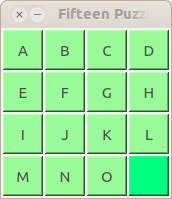
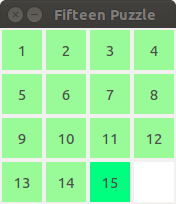
minor

diff --git a/p6-gui.html b/p6-gui.html
@@ -607,27 +607,24 @@ centralWidget()-&gt;setLayout(layout);
 <slide  >
   
     <hgroup>
-      <h2>FifteenGui</h2>
+      <h2>Fifteen</h2>
       <h3></h3>
     </hgroup>
     <article >
       <figure>
         <img src="images/qt/fifteen-puzzle.jpg">
         
-      </figure><pre class="prettyprint" data-lang="C++"><code>class FifteenGui : public QWidget {
+      </figure><pre class="prettyprint" data-lang="C++"><code>class GameGui : public QWidget {
     Q_OBJECT
 public:
-    FifteenGui(FifteenPuzzle* puzzle);
+    GameGui(Fifteen* puzzle);
 private:
     void handle_click(int x, int y);
     void update_button(int x, int y);
     void update_all_buttons();
 
-    int cols() { return puzzle_-&gt;cols(); }
-    int rows() { return puzzle_-&gt;rows(); }
-
-    vector&lt;QPushButton*&gt; buttons_;
-    FifteenPuzzle* puzzle_;
+    Fifteen* puzzle_;
+    int cols_, rows_;
 };
 </code></pre></article>
  
@@ -636,30 +633,31 @@ private:
 <slide  >
   
     <hgroup>
-      <h2>FifteenGui – Costruttore</h2>
+      <h2>Fifteen – Costruzione gui</h2>
       <h3></h3>
     </hgroup>
     <article >
       <figure>
         <img src="images/qt/puzzle.png">
         
-      </figure><pre class="prettyprint" data-lang="C++"><code>auto grid = new QGridLayout; setLayout(grid);
-for (auto y = 0; y &lt; rows(); ++y) {
-    for (auto x = 0; x &lt; cols(); ++x) {
-        auto b = new QPushButton; 
-        buttons_.push_back(b);
-        grid-&gt;addWidget(b, y, x);
-        connect(b, &amp;QPushButton::clicked,
-                [=]{ handle_click(x, y); });
+      </figure><pre class="prettyprint" data-lang="C++"><code>GameGui::GameGui(Fifteen* puzzle) {
+    cols_ = puzzle.cols(); rows_ = puzzle.rows();
+    puzzle_ = puzzle; 
+    auto grid = new QGridLayout; setLayout(grid);
+    for (auto y = 0; y &lt; rows_; ++y) {
+        for (auto x = 0; x &lt; cols_; ++x) {
+            auto b = new QPushButton; 
+            grid-&gt;addWidget(b, y, x);
+            connect(b, &amp;QPushButton::clicked,
+                    [=]{ handle_click(x, y); });
+        }
     }
+    update_all_buttons();
 }
-update_all_buttons();
 </code></pre>
 <ul>
-<li><strong>Funzioni lambda</strong>: anonime, annidate (<em>Church</em>, 1936)<ul>
-<li><strong>Closure</strong>: cattura di valori dal contesto; <code>this</code>, <code>x</code>, <code>y</code></li>
-</ul>
-</li>
+<li><em>Funzioni lambda</em>: anonime, annidate (<em>Church</em>, 1936)</li>
+<li><em>Closure</em>: cattura di valori dal contesto; <code>this</code>, <code>x</code>, <code>y</code></li>
 </ul></article>
  
 </slide>
@@ -671,19 +669,21 @@ update_all_buttons();
       <h3></h3>
     </hgroup>
     <article >
-      <pre class="prettyprint" data-lang="C++"><code>void FifteenGui::update_button(int x, int y) {
-    auto val = puzzle_-&gt;get({x, y});
-    auto symbol = 'A' + val - FifteenPuzzle::FIRST;
-    if (val == FifteenPuzzle::BLANK) symbol = ' ';
+      <pre class="prettyprint" data-lang="C++"><code>void GameGui::update_button(int x, int y) {
+    auto val = puzzle_-&gt;get(x, y);
+    string symbol = "";
+    if (val &gt; 0) symbol = to_string(val);
 
-    auto b = buttons_[y * cols() + x];
-    b-&gt;setText(QString{symbol});
+    auto b = layout()-&gt;itemAt(y * cols_ + x)-&gt;widget();
+    dynamic_cast&lt;QPushButton*&gt;(b)-&gt;setText(symbol.c_str());
 }
 
-void FifteenGui::update_all_buttons() {
-    for (auto y = 0; y &lt; rows(); y++)
-        for (auto x = 0; x &lt; cols(); x++)
+void GameGui::update_all_buttons() {
+    for (auto y = 0; y &lt; rows_; y++) {
+        for (auto x = 0; x &lt; cols_; x++) {
             update_button(x, y);
+        }
+    }
 }
 </code></pre></article>
  
@@ -692,22 +692,21 @@ void FifteenGui::update_all_buttons() {
 <slide  >
   
     <hgroup>
-      <h2>FifteenGui – Gestione click</h2>
+      <h2>Fifteen – Gestione click</h2>
       <h3></h3>
     </hgroup>
     <article >
       <figure>
         <img src="images/qt/puzzle-solved.png">
         
-      </figure><pre class="prettyprint" data-lang="C++"><code>void FifteenGui::handle_click(int x, int y) {
-    puzzle_-&gt;move({x, y});
-    auto blank = puzzle_-&gt;blank(), moved = puzzle_-&gt;moved();
-    update_button(blank.real(), blank.imag());
-    update_button(moved.real(), moved.imag());
+      </figure><pre class="prettyprint" data-lang="C++"><code>void GameGui::handle_click(int x, int y) {
+    puzzle_-&gt;move_pos(x, y);
+    update_all_buttons();  // ...
 
-    if (puzzle_-&gt;finished()) {
-        QMessageBox::information(this, tr("Congratulations"),
-                                 tr("Game finished!"));
+    if (puzzle_-&gt;is_finished()) {
+        QMessageBox::information(this,
+                tr("Congratulations"),
+                tr("Game finished!"));
         puzzle_-&gt;shuffle();
         update_all_buttons();
     }
@@ -738,14 +737,12 @@ void FifteenGui::update_all_buttons() {
         
       </figure><pre class="prettyprint" data-lang="python"><code>class FifteenGui(QWidget):
     def __init__(self, puzzle: FifteenPuzzle):
-        super().__init__()
+        QWidget.__init__(self)
         self._puzzle = puzzle
-        self._buttons = []
         self.setLayout(QGridLayout())
-        for y in range(puzzle.rows):
-            for x in range(puzzle.cols):
+        for y in range(self.rows()):
+            for x in range(self.cols()):
                 b = QPushButton()
-                self._buttons.append(b)
                 self.layout().addWidget(b, y, x)
                 b.clicked.connect(lambda x=x, y=y:
                     self.handle_click(x, y))
@@ -762,22 +759,19 @@ void FifteenGui::update_all_buttons() {
       <h3></h3>
     </hgroup>
     <article >
-      <figure>
-        <img src="images/qt/puzzle.png">
-        
-      </figure><pre class="prettyprint" data-lang="python"><code>class FifteenGui(QWidget):
+      <pre class="prettyprint" data-lang="python"><code>class FifteenGui(QWidget):
     # ...
     def update_button(self, x: int, y: int):
         val = self._puzzle.get(x, y)
-        symbol = chr(ord('A') + val - 1)
-        if val == 0: symbol = ' '
+        symbol = ' '
+        if val &gt; 0: symbol = chr(ord('A') + val - 1)
 
-        b = self._buttons[y * self._puzzle.cols + x]
+        b = self.layout().itemAt(y * self.cols() + x).widget()
         b.setText(symbol)
 
     def update_all_buttons(self):
-        for y in range(self._puzzle.rows):
-            for x in range(self._puzzle.cols):
+        for y in range(self.rows()):
+            for x in range(self.cols()):
                 self.update_button(x, y)
 </code></pre></article>
  
@@ -797,12 +791,12 @@ void FifteenGui::update_all_buttons() {
     # ...
     def handle_click(self, x: int, y: int):
         self._puzzle.move_pos(x, y)
-        self.update_button(*self._puzzle.blank)  # args unpacking
-        self.update_button(*self._puzzle.moved)
+        self.update_all_buttons()  # ...
 
         if self._puzzle.finished:
-            QMessageBox.information(self, self.tr('Congratulations'),
-                                    self.tr('Game finished!'))
+            QMessageBox.information(self,
+                    self.tr('Congratulations'),
+                    self.tr('Game finished!'))
             self._puzzle.shuffle()
             self.update_all_buttons()
 </code></pre></article>
